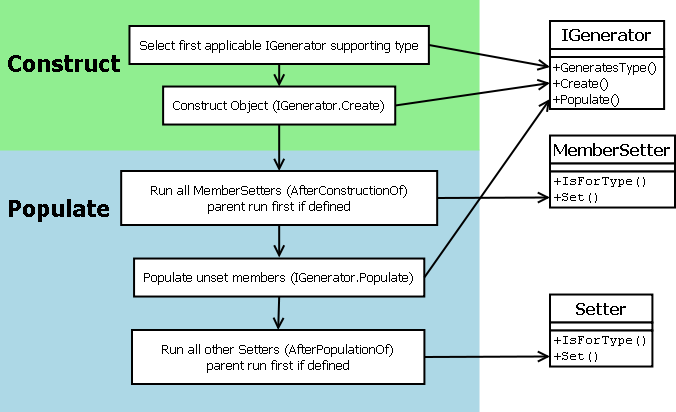
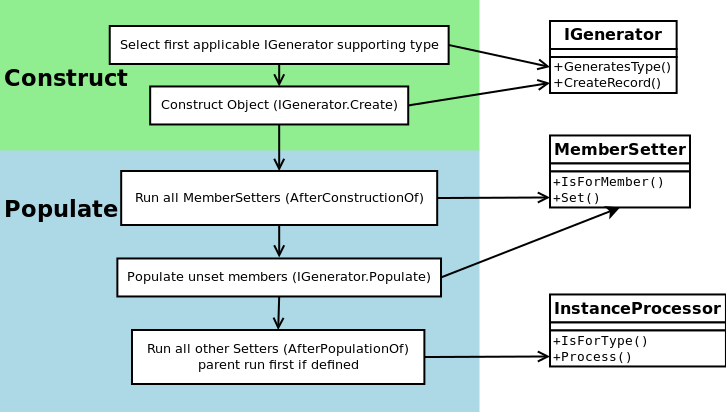
Corrected construction and behaviour diagrams

diff --git a/NGineer/Documentation/ngineer-docs.html b/NGineer/Documentation/ngineer-docs.html
@@ -713,9 +713,9 @@ var books = new Builder(1)
 <pre>[[Introduction]]
 [[Diving In]]</pre>
 </div>
-<div title="Design justification" creator="PhilipPeitsch" modifier="PhilipPeitsch" created="201005121233" modified="201006030956" changecount="7">
+<div title="Design justification" creator="PhilipPeitsch" modifier="PhilipPeitsch" created="201005121233" modified="201011200648" changecount="8">
 <pre>There are no two ways about it...  generating test objects is painful.  Things start out simple, and before you know it, you have either
-* Generating realms of static data shared between tests
+* Generating reams of static data shared between tests
 * Creating numerous functions to create static, shared data instead
 * Or getting lost somewhere in the wilderness of other dead-ended options available
 The problem is, this test code and data structures carry two very important (and expensive) issues:
@@ -882,7 +882,7 @@ loadRemoteFile = function(url,callback,params)
 //}}}
 </pre>
 </div>
-<div title="MainMenu" creator="PhilipPeitsch" modifier="PhilipPeitsch" created="201005121159" modified="201011200319" changecount="17">
+<div title="MainMenu" creator="PhilipPeitsch" modifier="PhilipPeitsch" created="201005121159" modified="201011200646" changecount="18">
 <pre>[[Introduction]]
 [[Diving In]]
 [[Examples]]
@@ -890,7 +890,6 @@ loadRemoteFile = function(url,callback,params)
 
 [[Implementation]]
 [[Builder Methods]]
-[[Useful Interfaces]]
 [[Design justification]]
 
 [[Roadmap]]</pre>
